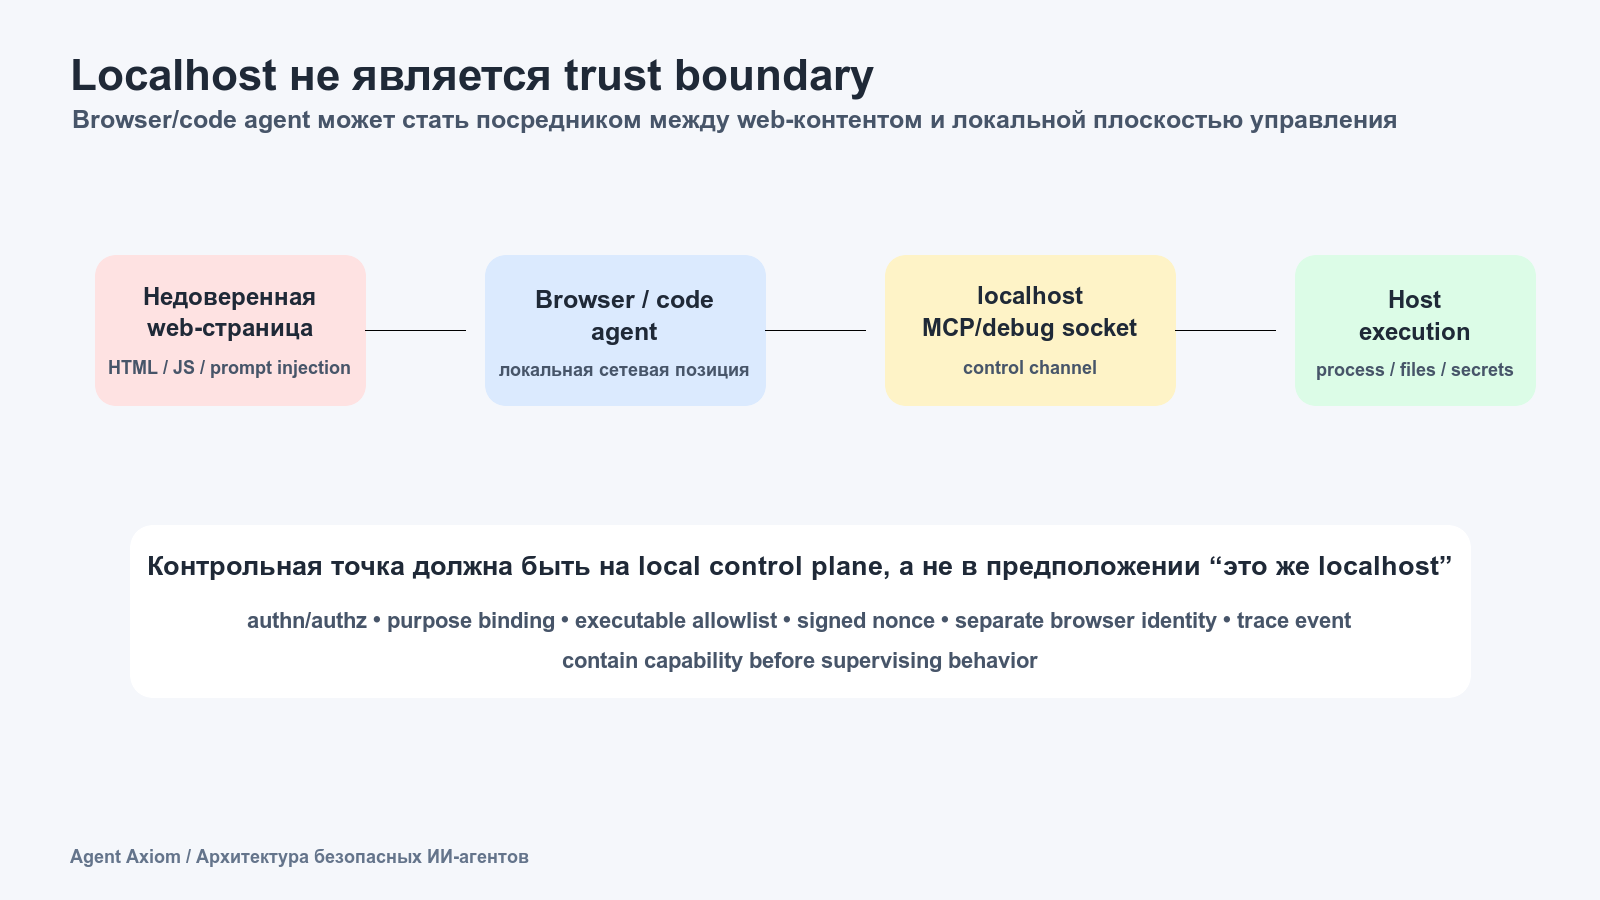
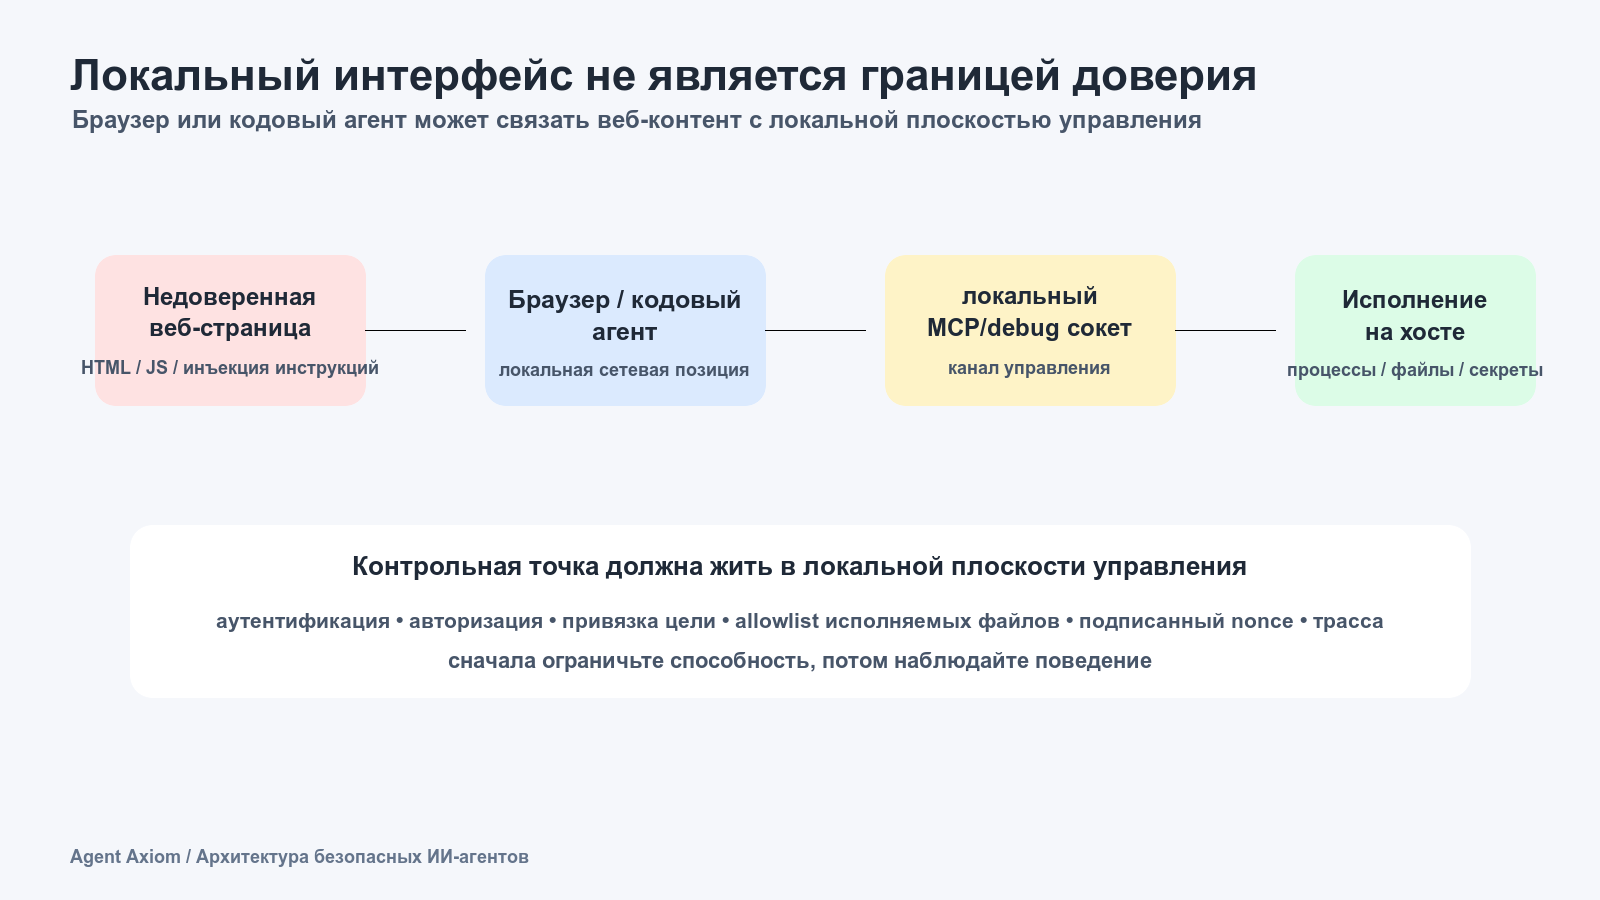
docs: improve ru manuscript practice pass

diff --git a/docs/publisher/ru-google-doc-reader-practice-and-figure-localization-pass-2026-07-10.md b/docs/publisher/ru-google-doc-reader-practice-and-figure-localization-pass-2026-07-10.md
@@ -1,0 +1,56 @@
+# RU Google Doc reader practice and figure localization pass - 2026-07-10
+
+Target Google Doc: https://docs.google.com/document/d/1LyY2Psy2yaobn7VLmOwLTWm4QVrhp2I-ylE2B7V4pp4/edit
+
+Final checked Google Doc revision:
+`ALtnJHyI5sQTWaJ5l564NQw2V5m_CpUK0eCQH92naVVGfqGZT7Q6-Vg6Nw1QHySqsLxxaYV1Pbg0yJ7C8_Of1sO5aY-C1RvsZOvGJRnDWoo`
+
+Final exported PDF for QA:
+`/tmp/agent-arch-google-doc-reader-practice-final2-2026-07-10.pdf`
+
+## Implemented in the Google Doc
+
+- Added seven practical exercises at the actual major-part boundaries of the manuscript:
+  - part I: page 50
+  - part II: page 103
+  - part III: page 133
+  - part IV: page 177
+  - part V: page 246
+  - part VI: page 343
+  - part VII: page 419
+- Normalized raw GitHub URLs for the reference implementation into readable labels such as `GitHub: agent_runtime_ref/...`.
+- Added companion-material framing for long command and file matrices, so the printed manuscript reads as an explanation first and a reference package second.
+- Rechecked the document after cleanup to remove the accidental false `Практическое упражнение части VIII` insertion.
+
+## Implemented in the repository
+
+Localized the source SVG and regenerated PNG assets for the following figures:
+
+- `docs/publisher/visuals/ru-figure-18-runtime-stack.svg`
+- `docs/publisher/visuals/ru-figure-19-localhost-control-plane.svg`
+- `docs/publisher/visuals/ru-figure-20-eval-integrity.svg`
+- `docs/publisher/visuals/ru-figure-21-mcp-gateway.svg`
+- `docs/publisher/visuals/ru-figure-22-durable-workflow-fiber.svg`
+
+The figures now use Russian labels for the main conceptual blocks while keeping canonical technical terms where replacing them would reduce precision.
+
+## QA evidence
+
+- Google Docs export produced a 462-page PDF.
+- Extracted text contains seven practical exercises and no false part VIII exercise.
+- Extracted text contains no raw `github.com/agent-axiom/agent-arch` URLs after link normalization.
+- Raster QA was performed with `pdftoppm` on all 462 pages at low resolution and on all exercise pages at higher resolution.
+- Exercise-page contact sheet showed the exercises placed cleanly before the next major part or appendix.
+
+## Known limitation
+
+The Google Docs connector route updated the manuscript text directly, but did not complete in-place replacement of already inserted images. Google Docs `replaceImage` requires a publicly fetchable image URI; the connector-side local image sidecar supports inline image insertion, not replacement of an existing image object. A temporary Drive-uploaded image was therefore not usable for direct replacement without public image access.
+
+The localized image assets are committed in the repository and should be applied to the Google Doc in the next layout pass, either through a public-asset image replacement route or through a DOCX/import pass.
+
+## Author/editor follow-up
+
+- Fill the `Об авторе` placeholders with final author biography, credentials, contacts, and preferred presentation.
+- Decide whether the manuscript should explicitly materialize an eighth body part or whether front-matter claims should be normalized to the current seven major body parts plus appendices.
+- Apply the official publisher template in the final DOCX/layout pass.
+- Run a human line edit for rhythm, repeated explanations, and remaining optional English technical terms.
